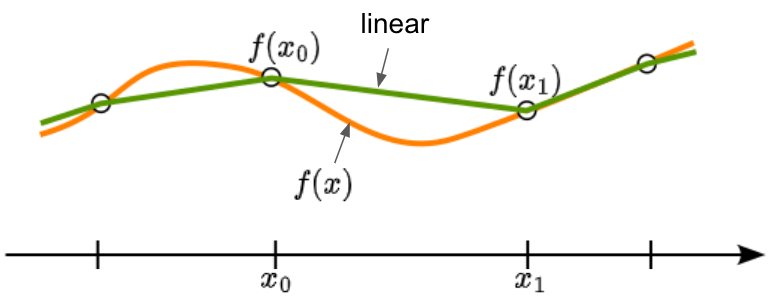
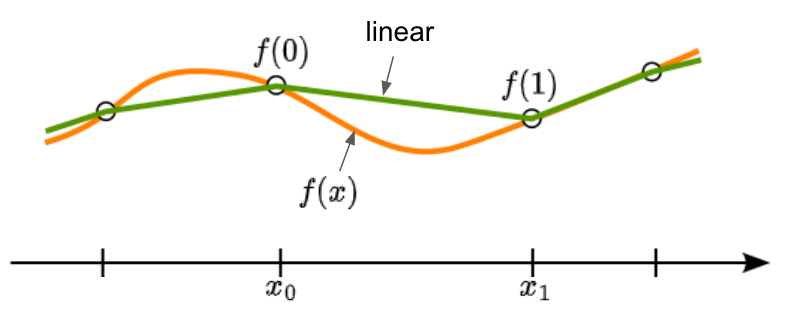
modify notation

diff --git a/docs/discussion.md b/docs/discussion.md
@@ -16,53 +16,55 @@ Linear interpolation along an axis is often sufficient if either of the followin
 1) the known funciton values are closely spaced, such that variations between neighboring points are within acceptable tolerances, or
 2) the function itself is expected to follow a linear (constant slope) trend between any two known, adjacent grid-axis points.  
 
-Let $\mu=(x-x_0)/(x_1-x_0)$.
+We let $\mu=(x-x_0)/(x_1-x_0)$, and identify $f(\mu)$ for $0\leq\mu\leq1$. The linear interpolation has the form:
 
-To find $f(x)$ for $\mu$ in $(0, 1)$, a linear interpolation computes:
+&ensp;&ensp;$f(\mu)=a\cdot\mu+b$
 
-```math
+We require that $f(\mu)$ contain the function values at $x_0$ and $x_1$. 
+In 1-D, we will represent $f(x_i)$ by $f(i)$, for simplicity. Then
+
+&ensp;&ensp;$a=f(1)-f(0)$    
+&ensp;&ensp;$b=f(0)$
+
+For clarity, we can organize these expressions as shown below, to develop the general algorithm:
+
+$$
 \begin{align*}
-f(x)=(1-\mu)\cdot f(x_0) + \mu \cdot f(x_1)
+f(\mu)\quad=
+&\quad(1-\mu)&\cdot \quad f(0)\\
+&\quad+ \mu&\cdot \quad f(1)
 \end{align*}
-```
+$$
 
-This shows that the linear interpolation for a given $\mu$ can be calculated from only the function values for the two neighboring grid points, multiplied by appropriate coefficients. For clarity, we will organize these expressions as shown below, to develop the general algorithm:
-
-```math
-\begin{align*}
-f(x)\quad=
-\quad&(1-\mu)&\cdot \quad f(x_0)\\
-+ \quad&\mu&\cdot \quad f(x_1)
-\end{align*}
-```
-
-Notice that sum of these coefficients is unity, ensuring that the interpolation returns a weighted average of the neighboring function values. We therefore refer to these coefficients as *weights*, or *weight factors*. The linearly interpolated function $f(x)$ consists of a train of straight-line segments connecting each pair of neighboring points. 
+Notice that sum of these coefficients is unity, ensuring that the interpolation returns a weighted average of the neighboring function values. We therefore refer to these coefficients as *weights*, or *weight factors*. The linearly interpolated function $f(\mu)$ consists of a train of straight-line segments connecting each pair of neighboring points. 
 <p align="center">
     <img width="60%" src="./figs/fig_1D_linear.png"> 
 </p>
 
-Analytically, we can extend the 1-D interpolation to a two-dimensional (2-D) data set as follows:
+**btwxt** performs interpolations spanning an arbritrary number of grid-axis dimensions. Analytically, we can extend the 1-D interpolation to a two-dimensional (2-D) data set as follows:
 
-```math
+$$
 \begin{align*}
-f(x)=(1-\mu_1)\cdot [(1-\mu_0)\cdot f(x_{00}) + \mu_0 \cdot f(x_{10})]+\mu_1\cdot [(1-\mu_{0})\cdot f(x_{01}) + \mu_0 \cdot f(x_{11})]
+f(\mu_0,\mu_1)\quad=
+&\quad(1-\mu_1)&\cdot &\quad&[(1-\mu_0)\cdot f(x_{00}) + \mu_0 \cdot f(x_{10})]\\
+&\quad+\mu_1&\cdot &\quad&[(1-\mu_{0})\cdot f(x_{01}) + \mu_0 \cdot f(x_{11})]
 \end{align*}
-```
+$$
 
 For the purpose of computation, the equation above is expanded, so that each neighboring function value appears exactly once:
 
-```math
+$$
 \begin{align*}
-f(x)\quad=
-\quad&(1-\mu_0)\cdot (1-\mu_1)&\cdot \quad f(x_{00})\\ 
-+ \quad&\mu_0\cdot (1-\mu_1)&\cdot \quad f(x_{10})\\
-+ \quad&(1-\mu_0)\cdot \mu_1&\cdot  \quad f(x_{01})\\
-+ \quad&\mu_0 \cdot \mu_1&\cdot  \quad f(x_{11})
+f(\mu_0,\mu_1)\quad=
+&\quad(1-\mu_0)\cdot (1-\mu_1)&\cdot \quad f(x_{00})\\ 
+&\quad+\mu_0\cdot (1-\mu_1)&\cdot \quad f(x_{10})\\
+&\quad+(1-\mu_0)\cdot \mu_1&\cdot  \quad f(x_{01})\\
+&\quad+\mu_0 \cdot \mu_1&\cdot  \quad f(x_{11})
 \end{align*}
-```
+$$
 
 <p align="center">
-    <img width="50%" src="./figs/fig_2D_linear.png"> 
+    <img width="70%" src="./figs/fig_2D_linear.png"> 
 </p>
 
 The cofficient that multiplies each function value comprises the weight of the vertex located at the  grid point coordinates. Each 2-D weight is simply the product of the weight terms associated with each of the two axes. Notice that there are two unique weight factors (i.e., $\mu_i$ and $1-\mu_i$) associated with each axis, so we must evaluate $2+2=4$ single-axis weights, in total. These are then combined to form $2\cdot 2=4$ weights for the full rectangle. The extension of this formulation to an N-dimensional (N-D) parameter space is straightforward.
@@ -74,20 +76,14 @@ For an N-D system, when linear interpolation is applied along all axes, the hype
 All known function values will be precisely reproduced by a linear interpolation, and the interpolated function will be continuous. However, the slope of this interpolation will not be continuous, and a smoother form of spline may be desireable. This condition can be met by a cubic interpolation.
 
 ## Cubic Interpolation
-Assume $f$ is a degree-3 polynomial:
+Assume $f(\mu)$ is a degree-3 polynomial:  
+     $f(\mu)=a\cdot \mu ^3+b\cdot \mu ^2+c\cdot \mu+d$
 
-&ensp;&ensp;$f(x)=a\cdot x^3+b\cdot x^2+c\cdot x+d$
-
-The expression above has four unknown coefficients, so we need more information than just the two neighboring function values, $f(x_0)$ and $f(x_1)$. It is sufficient for this purpose to use the slopes at $x_0$ and $x_1$, labeled $f'(x_0)$ and $f'(x_1)$.
-
-We will now represent $f(x_i)$ by $f(i)$ and $f'(x_i)$ by $f'(i)$, for simplicity. 
+The expression above has four unknown coefficients, so we need more information than just the two neighboring function values, $f(0)$ and $f(1)$. It is sufficient for this purpose to use the slopes at $x_0$ and $x_1$, labeled $f'(0)$ and $f'(1)$, respectively.
 
 <p align="center">
     <img width="60%" src="./figs/fig_slopes.png"> 
 </p>
-
-The cubic polynomial can be written:   
-     $f(\mu)=a\cdot \mu ^3+b\cdot \mu ^2+c\cdot \mu+d$
 
 To express the derivate in terms of $\mu$ , we use   
 &ensp;&ensp;$f'=\dfrac{df}{dx}=\dfrac{d\mu}{dx} \cdot \dfrac{df}{d\mu}=\dfrac{1}{x_1-x_0}\cdot\dfrac{df}{d\mu}$  
@@ -101,7 +97,7 @@ Evaluate at 0 and 1:
      $f'(0)=c/(x_1-x_0)$   
      $f'(1)=(3a+2b+c)/(x_1-x_0)$   
 
-We can invert ths system of equations to find the coefficients [^1]:   
+We can invert ths system of equations to find the coefficients:[^1]  
      $a=2f(0)-2f(1)+(x_1-x_0)\cdot f'(0)+(x_1-x_0)\cdot f'(1)$   
      $b=-3f(0)+3f(1)-2(x_1-x_0)\cdot f'(0)-(x_1-x_0)\cdot f'(1)$   
      $c=(x_1-x_0)\cdot f'(0)$   
@@ -109,15 +105,17 @@ We can invert ths system of equations to find the coefficients [^1]:
 
 Substitute into $f(\mu)$:
 
-```math
+$$
 \begin{align*}
-f(\mu)=&(2\mu^3-3\mu^2+1)\cdot f(0)+(-2\mu^3+3\mu^2)\cdot f(1)\\
-+&(\mu^3-2\mu^2+\mu)\cdot (x_1-x_0)\cdot  f'(0)
-+(\mu^3-\mu^2)\cdot (x_1-x_0)\cdot f'(1)\\
+f(\mu)=
+&\quad(2\mu^3-3\mu^2+1)&\cdot\quad( &f(0)\\
+&\quad+(-2\mu^3+3\mu^2)&\cdot\quad( &f(1)\\
+&\quad+(\mu^3-2\mu^2+\mu)\cdot (x_1-x_0)&\cdot\quad(  &f'(0)\\
+&\quad+(\mu^3-\mu^2)\cdot (x_1-x_0)&\cdot\quad( &f'(1)\\
 \end{align*}
-```
+$$
 
-Whereas we know the function values, $f(0)$ and $f(1)$, we can only estimate the slopes, $f'(0)$ and $f'(1)$, from the data, itself. Several methods for estimating these slopes have been proposed.[^2]. A common assumption is that the slope at any grid point is equal to that of the line containing the previous and next points on the axis:
+Whereas we know the function values, $f(0)$ and $f(1)$, we can only estimate the slopes, $f'(0)$ and $f'(1)$, from the data, itself. Several methods for estimating these slopes have been proposed.[^2] A common assumption is that the slope at any grid point is equal to that of the line containing the previous and next points on the axis:
 
 &ensp;&ensp;$f'(0)=(f(1)-f(-1))/(x_1-x_{-1})$   
 &ensp;&ensp;$f'(1)=(f(2)-f(0))/(x_2-x_0)$  
@@ -133,25 +131,26 @@ We define:
 
 then rewrite the polynomial:   
 
-```math
+$$
 \begin{align*}
-f(\mu)=\quad&c_{0}\cdot f(0)\\
-+&c_{1}\cdot f(1)\\
-+&d_{0}\cdot s_0\cdot (f(1)-f(-1))\\
-+&d_{1}\cdot s_1\cdot (f(2)-f(0))
+f(\mu)=
+&\quad\quad c_{0}&\cdot\quad &f(0)\\
+&\quad+c_{1}&\cdot\quad &f(1)\\
+&\quad+d_{0}\cdot s_0&\cdot\quad &(f(1)-f(-1))\\
+&\quad+d_{1}\cdot s_1&\cdot\quad &(f(2)-f(0))
 \end{align*}
-```
+$$
 
 Finally, identify the coefficients:
 
-```math
+$$
 \begin{align*}
 f(\mu)=&-d_{0}\cdot s_0&\cdot\quad &f(-1)\\
 &+(c_{0} -d_{1}\cdot s_1)&\cdot \quad &f(0)\\
 &+(c_{1}+d_{0}\cdot s_0)&\cdot\quad &f(1)\\
 &+d_{1}\cdot s_1&\cdot\quad &f(2)
 \end{align*}
-```
+$$
 
 Terms $c_{0}$ and $c_{1}$ are referred to as *interpolation coefficients*.
 
